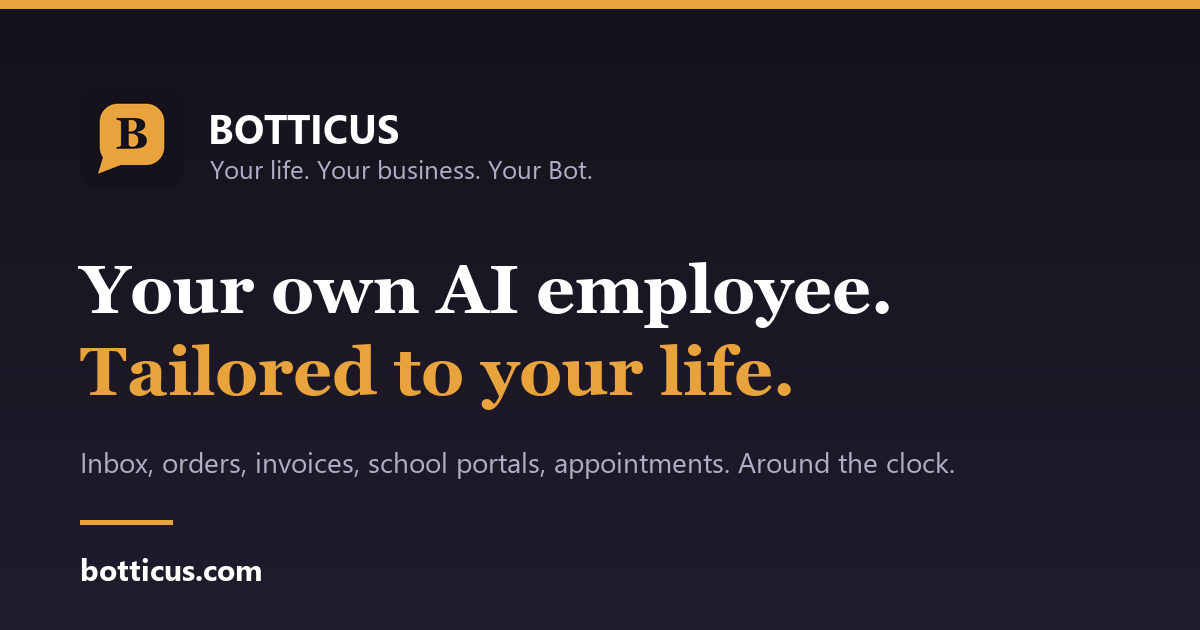
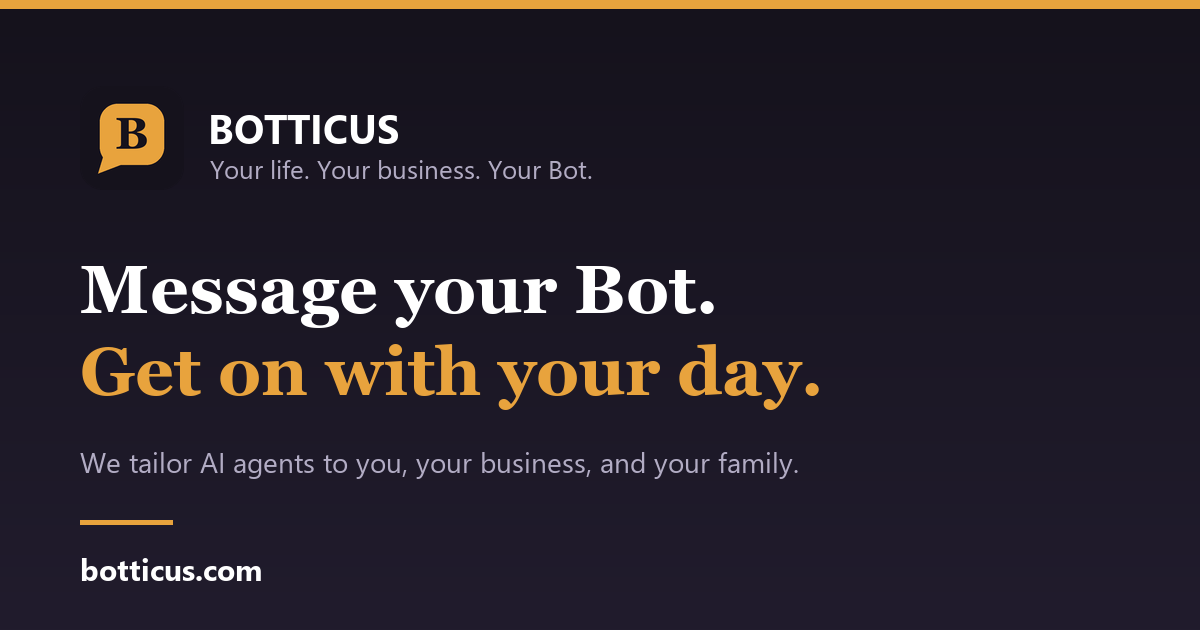
Share card carries the current headline and tailoring line

Changed region(s): [[0.0617, 0.4222, 0.74, 0.5429], [0.0617, 0.5429, 0.6783, 0.6635], [0.0617, 0.7238, 0.8017, 0.754]]

diff --git a/tools/make_botticus_images.py b/tools/make_botticus_images.py
@@ -75,11 +75,11 @@ def og_card():
     d.text((210, 150), "Your life. Your business. Your Bot.", font=font("segoeui.ttf", 26), fill=MUTED)
 
     headline = font("georgiab.ttf", 68)
-    d.text((80, 250), "Your own AI employee.", font=headline, fill=WHITE)
-    d.text((80, 332), "Tailored to your life.", font=headline, fill=GOLD)
+    d.text((80, 250), "Message your Bot.", font=headline, fill=WHITE)
+    d.text((80, 332), "Get on with your day.", font=headline, fill=GOLD)
 
     sub = font("segoeui.ttf", 28)
-    d.text((80, 442), "Inbox, orders, invoices, school portals, appointments. Around the clock.", font=sub, fill=MUTED)
+    d.text((80, 442), "We tailor AI agents to you, your business, and your family.", font=sub, fill=MUTED)
 
     d.rectangle([80, 520, 80 + 92, 524], fill=GOLD)
     d.text((80, 548), "botticus.com", font=font("segoeuib.ttf", 30), fill=WHITE)
